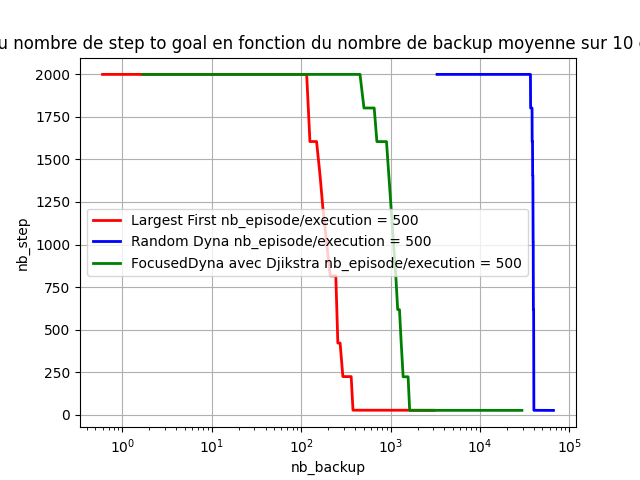
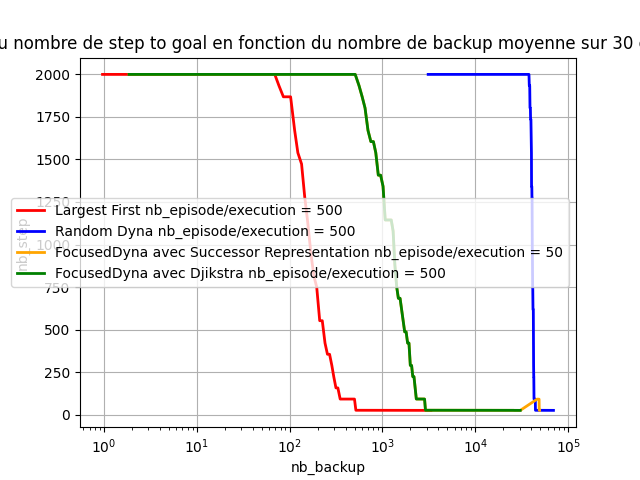
reorganisation

diff --git a/src/fig-8.py b/src/fig-8.py
@@ -39,7 +39,10 @@ all_backups_srfd = []
 
 nb_exec = config.main.nb_execution
 
-
+SR = SuccessorRepresentationFD(env, config.main.alpha,config.main.delta, 
+                                    config.main.epsilon, config.sr.nb_episode,
+                                    config.main.max_step, config.sr.env18x12.train_episode_length, 
+                                    config.sr.env18x12.test_episode_length)
 
 for i in range(nb_exec):
     QueueDyna = LargestFirst(env, config.main.alpha, config.main.delta, 
@@ -95,7 +98,7 @@ plt.plot(moyenne_par_indice(all_backups_srfd), moyenne_par_indice(all_steps_srfd
 plt.plot(moyenne_par_indice(all_backups_dfd), moyenne_par_indice(all_steps_dfd), color='green', linewidth=2, label = f"FocusedDyna avec Djikstra nb_episode/execution = {Djikstra.episode}")
 
 
-plt.figure(figsize=(15,10))
+# plt.figure(figsize=(15,10))
 plt.title(f'Courbe du nombre de step to goal en fonction du nombre de backup moyenne sur {nb_exec} executions ')
 plt.xlabel('nb_backup')
 plt.ylabel('nb_step')

diff --git a/src/PrioritizedReplayAgent.py b/src/PrioritizedReplayAgent.py
@@ -133,7 +133,7 @@ class PrioritizedReplayAgent:
         
         Returns
         ----------      
-            reward + mdp.unwrapped.gamma* max_reward_next_state- q_table[state,action]
+            reward + gamma* max_reward_next_state- q_table[state,action]
     """
     if state not in self.mdp.unwrapped.terminal_states:
       max_reward_next_state=np.max(self.q_table[next_state])
